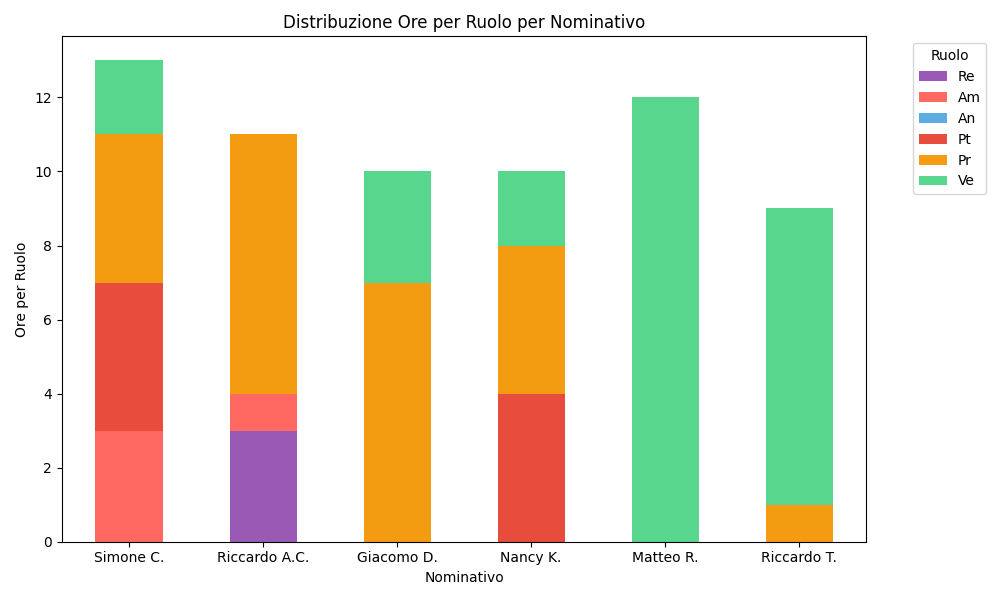
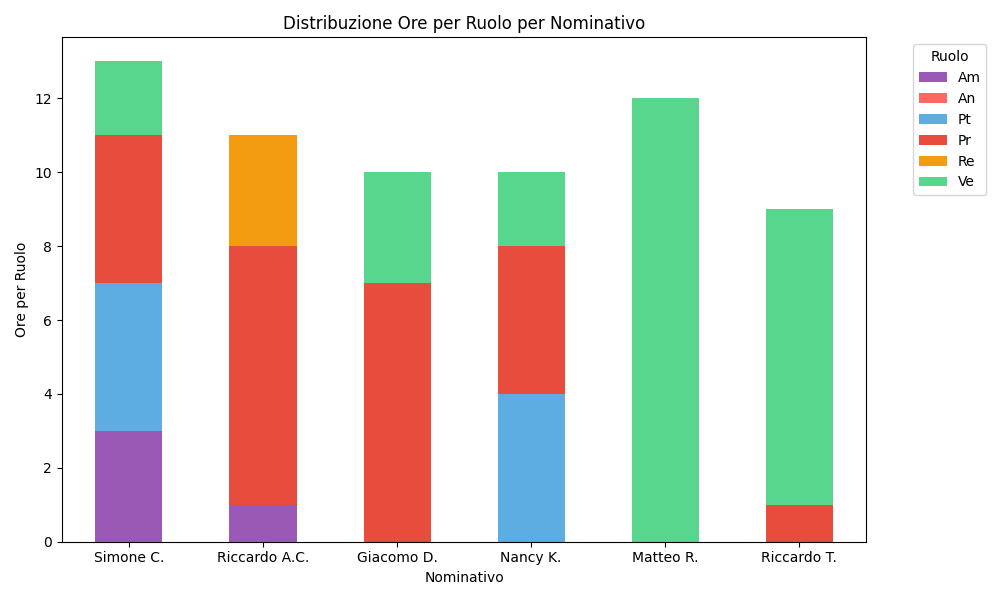
modifica ordine colonne per uniformare con consuntivi

diff --git a/src/3_PB/PianoDiProgetto/script.py b/src/3_PB/PianoDiProgetto/script.py
@@ -1,0 +1,31 @@
+import csv
+import sys
+
+def sposta_colonna(csv_file):
+    # Leggi il file CSV
+    with open(csv_file, 'r') as file:
+        csv_reader = csv.reader(file)
+        data = list(csv_reader)
+
+    # Controllo che il file abbia almeno due colonne
+    if len(data) > 0 and len(data[0]) > 1:
+        # Sposta la seconda colonna come penultima colonna
+        for row in data:
+            second_col_value = row.pop(1)  # Rimuove il valore della seconda colonna
+            row.insert(-1, second_col_value)  # Inserisce il valore nella posizione penultima
+
+        # Scrivi il file CSV aggiornato
+        with open(csv_file, 'w', newline='') as file:
+            csv_writer = csv.writer(file)
+            csv_writer.writerows(data)
+        print("Colonna spostata correttamente.")
+    else:
+        print("Il file non ha abbastanza colonne.")
+
+# Eseguire lo script se viene fornito il nome del file CSV come argomento da riga di comando
+if __name__ == "__main__":
+    if len(sys.argv) != 2:
+        print("Utilizzo: python script.py nome_file.csv")
+    else:
+        nome_file_csv = sys.argv[1]
+        sposta_colonna(nome_file_csv)

diff --git a/src/3_PB/PianoDiProgetto/auto_preventivo.py b/src/3_PB/PianoDiProgetto/auto_preventivo.py
@@ -18,7 +18,7 @@ PROGETTISTA = {'extended':"Progettista", 'shortened':"Pt"}
 PROGRAMMATORE = {'extended':"Programmatore", 'shortened':"Pr"}
 VERIFICATORE = {'extended':"Verificatore", 'shortened':"Ve"}
 
-roles = [RESPONSABILE, AMMINISTRATORE, ANALISTA, PROGETTISTA, PROGRAMMATORE, VERIFICATORE]
+roles = [AMMINISTRATORE, ANALISTA, PROGETTISTA, PROGRAMMATORE, RESPONSABILE, VERIFICATORE]
 short_roles = [role['shortened'] for role in roles]
 ext_roles = [role['extended'] for role in roles]
 
@@ -40,7 +40,7 @@ COST_PROGRAMMATORE = 15
 COST_RESPONSABILE = 30
 COST_VERIFICATORE = 15
 
-costs = [COST_RESPONSABILE, COST_AMMINISTRATORE, COST_ANALISTA, COST_PROGETTISTA, COST_PROGRAMMATORE, COST_VERIFICATORE]
+costs = [COST_AMMINISTRATORE, COST_ANALISTA, COST_PROGETTISTA, COST_PROGRAMMATORE, COST_RESPONSABILE, COST_VERIFICATORE]
 
 import csv
 import matplotlib.pyplot as plt
